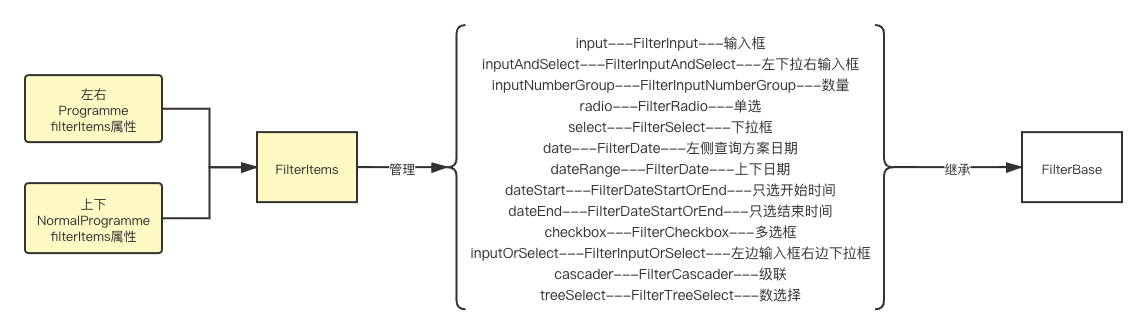
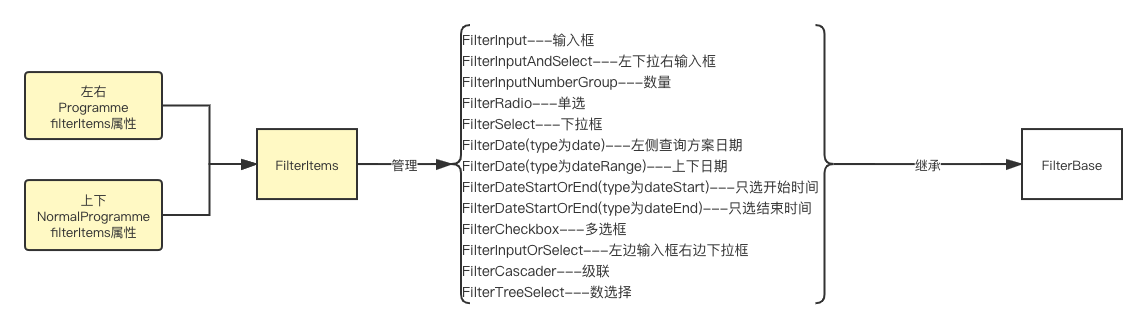
feat(docs/egenie-utils): add filterItems  doc

diff --git a/packages/egenie-utils/src/programme/filterItems/filterInputNumberGroup.tsx b/packages/egenie-utils/src/programme/filterItems/filterInputNumberGroup.tsx
@@ -185,7 +185,7 @@ export class FilterInputNumberGroup extends FilterBase {
   };
 
   /**
-   * 下拉框的值。data的长度大于1才需要传。和filterDate类似
+   * 下拉框的值。data的长度大于1才需要传。和inputAndSelect类似
    */
   @observable public selectValue = '';
 

diff --git a/docs/egenie-utils/programme/filterSelect.zh-CN.md b/docs/egenie-utils/programme/filterSelect.zh-CN.md
@@ -3,9 +3,71 @@ title: FilterSelect
 order: 5
 ---
 
-## 建设中
+## `value`
 
-- 描述: 是否显示查询项
+- 描述: 选中值
+- 类型: string | undefined | string[]
+  - 单选为: string | undefined 多选为: string[]
+- 默认值: undefined
+
+## `onChangeCallback`
+
+- 描述: 值改变回掉
+- 类型?: (value?: string | string[] | undefined) => void
+  - 单选为: string | undefined 多选为: string[]
+- 默认值: 无
+
+## `onSearchCallback`
+
+- 描述: 搜索值改变回掉
+- 类型?: (value?: string) => void
+- 默认值: 无
+
+## `disabled`
+
+- 描述: 是否禁止
+- 类型: boolean
+- 默认值: false
+
+## `allowClear`
+
+- 描述: 是否可清除
+- 类型: boolean
+- 默认值: true
+
+## `placeholder`
+
+- 描述: 输入框提示文字
+- 类型: string
+- 默认值: 单选: 请选择 多选: 请选择(可多选)
+
+## `showSearch`
+
+- 描述: 是否可搜索
+- 类型: boolean
+- 默认值: true
+
+## `showChooseAll`
+
+- 描述: 是否可以选中全部。多选才能生效
+- 类型: boolean
+- 默认值: false
+
+## `maxItemsLength`
+
+- 描述: 最多显示数量
+- 类型: number
+- 默认值: 1000
+
+## `mode`
+
+- 描述: 模式。默认单选、`multiple为多选`
+- 类型: `'multiple' | undefined`
+- 默认值: undefined
+
+## `showArrow`
+
+- 描述: 是否显示下拉小箭头
 - 类型: boolean
 - 默认值: true
 

diff --git a/docs/egenie-utils/programme/filterInputNumberGroup.zh-CN.md b/docs/egenie-utils/programme/filterInputNumberGroup.zh-CN.md
@@ -3,10 +3,46 @@ title: FilterInputNumberGroup
 order: 4
 ---
 
-## 建设中
+## `selectValue`
 
-- 描述: 是否显示查询项
+- 描述: 下拉框的值。`data的长度大于1才需要传`。和 filterInputAndSelect 类似
+- 类型: string
+- 默认值: 空字符
+
+## `handleSelectChangeCallback`
+
+- 描述: 下拉框改变值回掉
+- 类型?: (value?: string | undefined) => void
+- 默认值: 无
+
+## `value`
+
+- 描述: 值[min, max]
+- 类型: [number, number]
+- 默认值: [null, null]
+
+## `handleChangeCallback`
+
+- 描述: number 输入框改变值回掉
+- 类型?: (value?: [number, number]) => void
+- 默认值: 无
+
+## `placeholder`
+
+- 描述: 输入框提示文字
+- 类型: [string, string]
+- 默认值: ['请输入', '请输入']
+
+## `disabled`
+
+- 描述: 是否禁止
 - 类型: boolean
-- 默认值: true
+- 默认值: false
+
+## `step`
+
+- 描述: 每次改变步数，可以为小数
+- 类型: number
+- 默认值: 1
 
 ## [其他](./filter-base#filterbase)

diff --git a/CHANGELOG.md b/CHANGELOG.md
@@ -1,8 +1,9 @@
-# [0.0.0](http://192.168.200.111:9980/egFrontend/egenie-utils/compare/v0.4.20...v0.0.0) (2021-09-09)
+# [0.0.0](http://192.168.200.111:9980/egFrontend/egenie-utils/compare/v0.4.20...v0.0.0) (2021-09-10)
 
 ### Features
 
-- **docs/egenie-utils:** add filterItems doc ([6b5df5e](http://192.168.200.111:9980/egFrontend/egenie-utils/commits/6b5df5e3873ad333281796953c932d8945443407))
+- **docs/egenie-utils:** add filterItems doc ([51c70b0](http://192.168.200.111:9980/egFrontend/egenie-utils/commits/51c70b05a7c760205d19c34687ad8d820a16a5a6))
+- **docs/egenie-utils:** add filterItems doc ([97b2cfd](http://192.168.200.111:9980/egFrontend/egenie-utils/commits/97b2cfd2bdffbec2e3903e335d591d820070895f))
 - **docs/egenie-utils:** add programme doc ([78aed95](http://192.168.200.111:9980/egFrontend/egenie-utils/commits/78aed958c3278f18afada51f41eab51517109514))
 
 ## [0.4.20](http://192.168.200.111:9980/egFrontend/egenie-utils/compare/v0.4.19...v0.4.20) (2021-09-09)

diff --git a/docs/egenie-utils/programme/filterInput.zh-CN.md b/docs/egenie-utils/programme/filterInput.zh-CN.md
@@ -3,10 +3,40 @@ title: FilterInput
 order: 3
 ---
 
-## 建设中
+## `value`
 
-- 描述: 是否显示查询项
+- 描述: 输入的值
+- 类型: string
+- 默认值: 空字符
+
+## `onChangeCallback`
+
+- 描述: 改变值回掉
+- 类型?: (value?: string) => void
+- 默认值: 无
+
+## `isTrimWhiteSpace`
+
+- 描述: 是否去掉左右空格
 - 类型: boolean
 - 默认值: true
+
+## `placeholder`
+
+- 描述: 输入框提示文字
+- 类型: string
+- 默认值: 请输入
+
+## `allowClear`
+
+- 描述: 是否可清除
+- 类型: boolean
+- 默认值: true
+
+## `disabled`
+
+- 描述: 是否禁止
+- 类型: boolean
+- 默认值: false
 
 ## [其他](./filter-base#filterbase)
